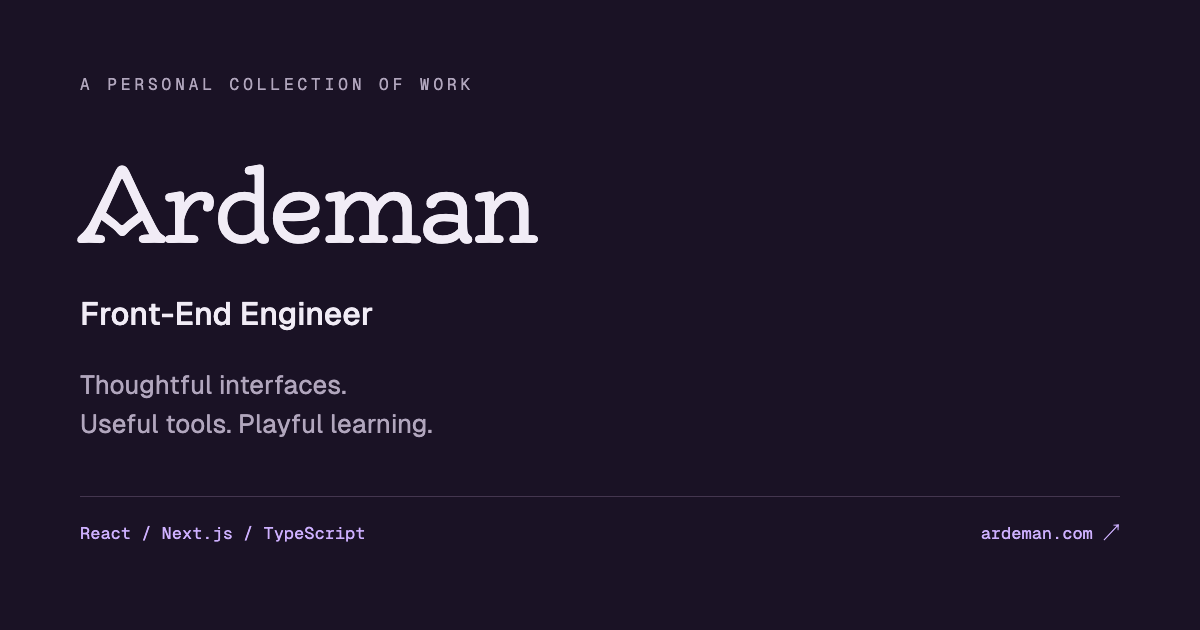
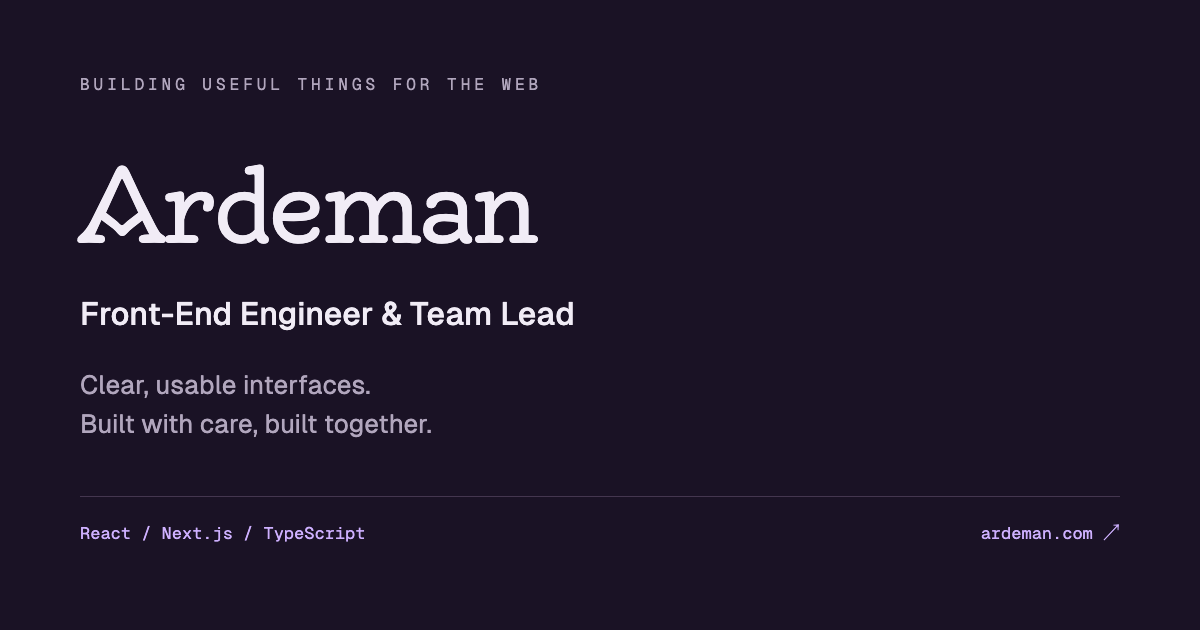
feat(profile): refresh introduction and about copy

diff --git a/src/constants/metadata.ts b/src/constants/metadata.ts
@@ -1,7 +1,7 @@
 import { Metadata } from 'next'
 
 const description =
-  'Ardeman is a front-end engineer building thoughtful web applications with React, Next.js, and TypeScript. Explore selected projects and professional experience.'
+  'Ardeman is a front-end engineer and team lead in Jakarta, building clear, usable web experiences with React, Next.js, and TypeScript.'
 export const metadata: Metadata = {
   metadataBase: new URL('https://ardeman.com'),
   title: 'Ardeman',
@@ -10,7 +10,7 @@ export const metadata: Metadata = {
   openGraph: {
     type: 'website',
     url: '/',
-    title: 'Ardeman — Front-End Engineer',
+    title: 'Ardeman — Front-End Engineer & Team Lead',
     description,
     siteName: 'Ardeman',
     locale: 'en_US',
@@ -19,13 +19,13 @@ export const metadata: Metadata = {
         url: '/images/social-preview.png',
         width: 1200,
         height: 630,
-        alt: 'Ardeman — Front-End Engineer. Selected work, experience, and playful learning.',
+        alt: 'Ardeman — Front-End Engineer & Team Lead. Building useful things for the web.',
       },
     ],
   },
   twitter: {
     card: 'summary_large_image',
-    title: 'Ardeman — Front-End Engineer',
+    title: 'Ardeman — Front-End Engineer & Team Lead',
     description,
     images: ['/images/social-preview.png'],
   },

diff --git a/src/components/sections/header/index.tsx b/src/components/sections/header/index.tsx
@@ -69,7 +69,7 @@ export const Header = ({ setActiveSection, activeSection }: TProps) => {
     <header className="lg:sticky lg:top-0 lg:flex lg:h-dvh lg:w-[34%] lg:shrink-0 lg:flex-col lg:justify-between lg:gap-8 lg:overflow-y-auto lg:py-16 xl:w-[36%] xl:py-20">
       <div>
         <p className="text-muted mb-5 font-mono text-[11px] uppercase tracking-[0.2em]">
-          A personal collection of work
+          Building useful things for the web
         </p>
         <h1 className="oldenburg-regular text-ink text-5xl tracking-tight sm:text-6xl">
           <a href="/">Ardeman</a>
